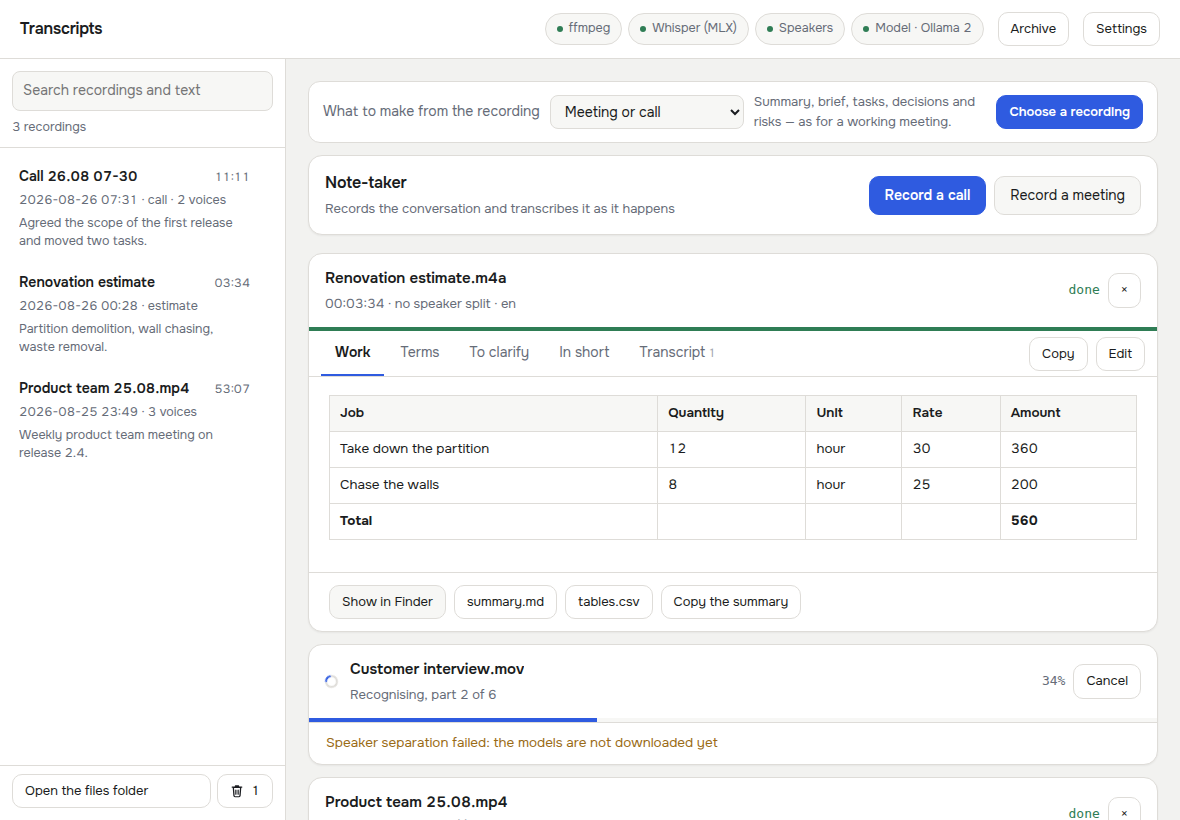
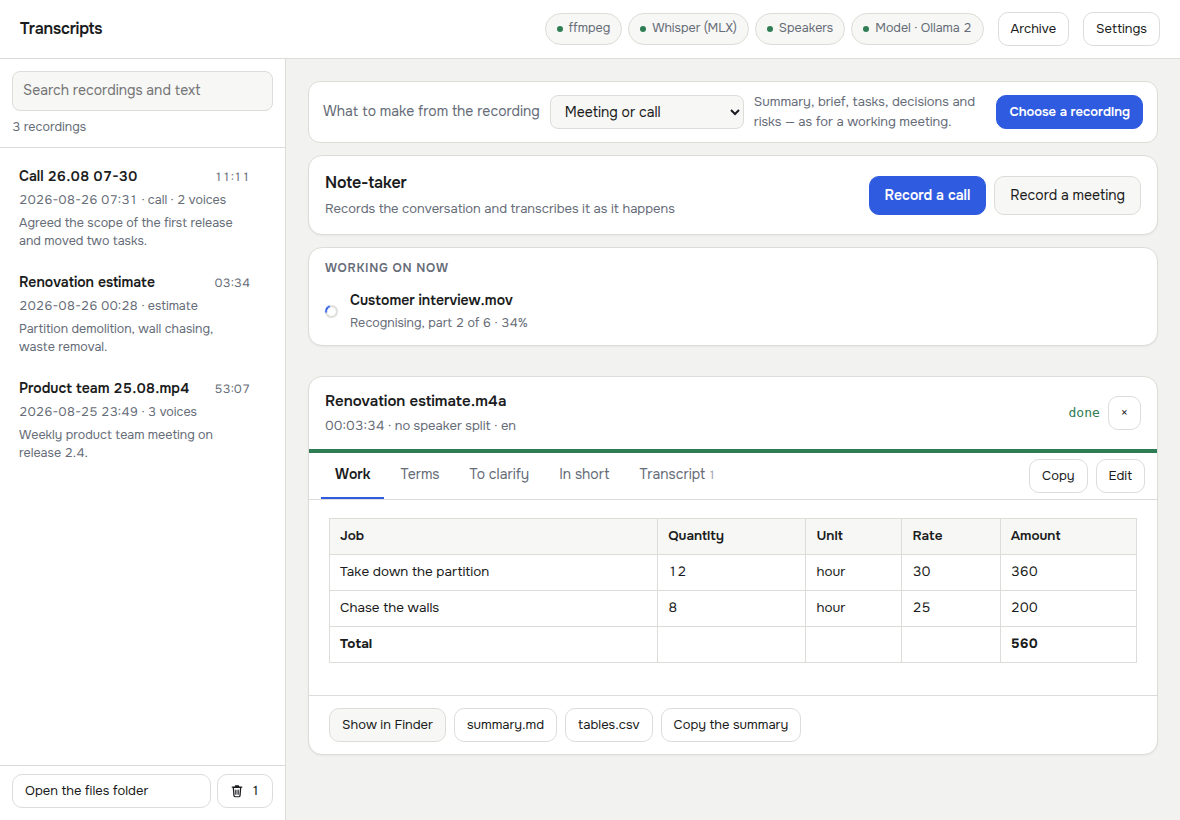
В рабочей области — одна запись, а не лента
Карточки копились в середине окна одна под другой, и люди теряли, на что
смотрят. Теперь там ровно та запись, которую открыли: кликом в списке
слева или запустив разбор. Всё, что считается прямо сейчас, собрано в
строку «Сейчас в работе» над записью — клик открывает задание.

uicheck проверяет, что в рабочей области ровно одна карточка и что строка
переключает открытую запись.

diff --git a/app/ui/index.html b/app/ui/index.html
@@ -464,6 +464,7 @@ const STR = {
     'job.speakerCount': '{n} спикер(ов)',
     'job.noSplit': 'без разделения',
     'job.copy': 'Копировать',
+    'job.working': 'Сейчас в работе',
     'job.copyTitle': 'Скопировать текст этой вкладки',
     'job.edit': 'Править',
     'job.editTitle': 'Убрать лишнее или поправить формулировку',
@@ -729,6 +730,7 @@ const STR = {
     'job.speakerCount': '{n} speaker(s)',
     'job.noSplit': 'no speaker split',
     'job.copy': 'Copy',
+    'job.working': 'Working on now',
     'job.copyTitle': "Copy this tab's text",
     'job.edit': 'Edit',
     'job.editTitle': "Cut what doesn't belong or fix the wording",
@@ -1095,7 +1097,7 @@ async function copySelection(){
 const state={ jobs:new Map(), tabs:new Map(), settings:{}, env:{},
   presets:{items:[],current:'meeting',example:''}, preset:'',
   lib:[], libQuery:'', libDir:'', libOpen:null, libAsk:null,
-  editing:new Map(), picking:null, voices:[],
+  editing:new Map(), picking:null, voices:[], openId:null,
   trash:[], trashDays:30, trashOpen:false, trashAsk:null };
 
 /* Набор вкладок зависит от профиля: у сметы свои разделы, у встречи свои.
@@ -1415,9 +1417,7 @@ async function openLib(id){
   if(!snap){ toast(T('lib.filesNotFound')); loadLib(); return; }
   state.libOpen=id;
   state.jobs.set(snap.id, snap);
-  render();
-  const card=document.querySelector(`.job[data-id="${snap.id}"]`);
-  if(card) card.scrollIntoView({block:'start', behavior:'smooth'});
+  openJob(snap.id);
 }
 
 async function deleteLib(id){
@@ -1468,18 +1468,52 @@ function renderPicker(){
   const top=$('#btn-pick-top'); if(top) top.onclick=pick;
 }
 
+/* В рабочей области — одна запись, та, что открыта. Лента из всех разом
+   путала: непонятно, где смотришь и что из этого свежее. Идущие задания
+   не теряются — они показаны строкой над записью и открываются кликом. */
+function openJob(id){
+  state.openId = id;
+  render();
+  const card=document.querySelector(`.job[data-id="${id}"]`);
+  if(card) card.scrollIntoView({block:'start', behavior:'smooth'});
+}
+
+function currentJob(){
+  const jobs=[...state.jobs.values()];
+  if(state.openId && state.jobs.has(state.openId)) return state.jobs.get(state.openId);
+  // Ничего не открыто — показываем то, что делается сейчас, иначе последнее.
+  return jobs.reverse().find(j=>j.status==='running'||j.status==='pending') || jobs[0] || null;
+}
+
+function workingHTML(current){
+  const others=[...state.jobs.values()].filter(j=>j!==current &&
+    (j.status==='running'||j.status==='pending'));
+  if(!others.length) return '';
+  return `<div class="rec-card queue">
+    <div class="queue-head">${T('job.working')}</div>` +
+    others.map(j=>`<button class="queue-item" data-openjob="${j.id}">
+      <div class="spin"></div>
+      <div style="min-width:0; text-align:left">
+        <div class="qt">${esc(j.title)}</div>
+        <div class="qs">${esc(j.message||'')} · ${Math.round(j.progress*100)}%</div>
+      </div>
+    </button>`).join('') + `</div>`;
+}
+
 function render(){
   renderPicker();
   renderLib();
-  const jobs=[...state.jobs.values()].reverse();
-  $('#jobs').innerHTML=jobs.map(jobCard).join('');
-  $('#drop').style.display = jobs.length ? 'none' : '';
+  const current=currentJob();
+  $('#jobs').innerHTML = current ? workingHTML(current) + jobCard(current) : '';
+  $('#drop').style.display = current ? 'none' : '';
   renderRec();
 }
 
 function patchJob(j){
   const prev=state.jobs.get(j.id);
   state.jobs.set(j.id,j);
+  // Новое задание само становится открытым: человек только что его запустил.
+  if(!prev && (j.status==='running'||j.status==='pending')) state.openId=j.id;
   // Пока задание идёт — двигаем только полоску, чтобы не мигал весь список.
   const node=document.querySelector(`.job[data-id="${j.id}"]`);
   if(node && prev && prev.status===j.status && (j.status==='running'||j.status==='pending')){
@@ -1762,7 +1796,7 @@ async function startJobs(paths){
 }
 
 document.addEventListener('click', async ev=>{
-  const t=ev.target.closest('[data-voice],[data-tab],[data-cancel],[data-remove],[data-reveal],[data-open],[data-copy],[data-copytab],[data-reccopy],[data-rename],[data-rec],[data-rectab],[data-lib],[data-libdel],[data-edittab],[data-editsave],[data-editcancel],[data-strike],[data-pick],[data-tag],[data-person],[data-learn],[data-forget],[data-restore],[data-purge]');
+  const t=ev.target.closest('[data-voice],[data-tab],[data-cancel],[data-remove],[data-reveal],[data-open],[data-copy],[data-copytab],[data-reccopy],[data-rename],[data-rec],[data-rectab],[data-lib],[data-libdel],[data-edittab],[data-editsave],[data-editcancel],[data-strike],[data-pick],[data-tag],[data-person],[data-learn],[data-forget],[data-restore],[data-purge],[data-openjob]');
   if(!t) return;
   if(t.dataset.edittab){
     const id=t.dataset.edittab, key=state.tabs.get(id) || firstTab(state.jobs.get(id));
@@ -1809,6 +1843,7 @@ document.addEventListener('click', async ev=>{
     await copyText(((r.summary_sections||{})[t.dataset.reccopy]||''));
     return;
   }
+  if(t.dataset.openjob){ openJob(t.dataset.openjob); return; }
   if(t.dataset.libdel){ ev.stopPropagation(); await deleteLib(t.dataset.libdel); return; }
   if(t.dataset.restore){
     const r=await api().trash_restore(t.dataset.restore);
@@ -1855,7 +1890,12 @@ document.addEventListener('click', async ev=>{
     render(); return;
   }
   if(t.dataset.cancel){ await api().cancel(t.dataset.cancel); return; }
-  if(t.dataset.remove){ state.jobs.delete(t.dataset.remove); render(); return; }
+  if(t.dataset.remove){
+    state.jobs.delete(t.dataset.remove);
+    if(state.openId===t.dataset.remove) state.openId=null;
+    if(state.libOpen===t.dataset.remove) state.libOpen=null;
+    render(); return;
+  }
   if(t.dataset.reveal){ await api().reveal(t.dataset.reveal); return; }
   if(t.dataset.open){ await api().open_file(t.dataset.open); return; }
   if(t.dataset.copy){

diff --git a/tools/uicheck.py b/tools/uicheck.py
@@ -359,8 +359,8 @@ def _english_pass(browser, settings: dict, env: dict, presets_mod, out_dir: Path
             if probe not in (page.text_content("#app") or ""):
                 errors.append(f"en/{scheme}: в окне нет «{probe}»")
 
-        page.evaluate("(j)=>{state.jobs.set(j.id,j); render();}", EN_JOB)
         page.evaluate("(j)=>{state.jobs.set(j.id,j); render();}", EN_RUNNING)
+        page.evaluate("(j)=>{state.jobs.set(j.id,j); openJob(j.id);}", EN_JOB)
         page.wait_for_timeout(150)
         page.click('.job[data-id="demo1234"] [data-tab="tasks"]')
         page.wait_for_timeout(120)
@@ -389,7 +389,7 @@ def _english_pass(browser, settings: dict, env: dict, presets_mod, out_dir: Path
 
         page.click('[data-rec="cancel"]')
         page.wait_for_timeout(150)
-        page.evaluate("(j)=>{state.jobs.set(j.id,j); render();}", EN_ESTIMATE_JOB)
+        page.evaluate("(j)=>{state.jobs.set(j.id,j); openJob(j.id);}", EN_ESTIMATE_JOB)
         page.wait_for_timeout(150)
         page.click('.job[data-id="demo9999"] [data-tab="works"]')
         page.wait_for_timeout(150)
@@ -471,8 +471,21 @@ def main() -> int:
 
             page.screenshot(path=str(out_dir / f"1-empty-{scheme}.png"))
 
-            page.evaluate("(j)=>{state.jobs.set(j.id,j); render();}", JOB)
             page.evaluate("(j)=>{state.jobs.set(j.id,j); render();}", RUNNING)
+            page.evaluate("(j)=>{state.jobs.set(j.id,j); openJob(j.id);}", JOB)
+            page.wait_for_timeout(200)
+            # В рабочей области — только открытая запись, остальные строкой сверху.
+            if page.locator(".job").count() != 1:
+                errors.append(f"{scheme}: в рабочей области больше одной записи: "
+                              f"{page.locator('.job').count()}")
+            if not page.locator('[data-openjob="demo5678"]').count():
+                errors.append(f"{scheme}: идущее задание не показано строкой")
+            page.click('[data-openjob="demo5678"]')
+            page.wait_for_timeout(250)
+            if not page.locator('.job[data-id="demo5678"]').count():
+                errors.append(f"{scheme}: по клику строка не открывает задание")
+            page.evaluate("openJob('demo1234')")
+            page.wait_for_timeout(200)
             page.wait_for_timeout(150)
             page.screenshot(path=str(out_dir / f"2-result-{scheme}.png"), full_page=True)
 
@@ -591,7 +604,7 @@ def main() -> int:
             page.wait_for_timeout(150)
 
             # --- профиль: смета со своими вкладками ---
-            page.evaluate("(j)=>{state.jobs.set(j.id,j); render();}", ESTIMATE_JOB)
+            page.evaluate("(j)=>{state.jobs.set(j.id,j); openJob(j.id);}", ESTIMATE_JOB)
             page.wait_for_timeout(150)
             est = page.text_content("#jobs") or ""
             for probe in ("Работы", "Что уточнить", "таблицы.csv"):
@@ -619,6 +632,8 @@ def main() -> int:
                 errors.append(f"{scheme}: подсказка профиля не обновилась")
 
             # --- правка саммари: вычеркнуть лишнее ---
+            page.evaluate("openJob('demo1234')")
+            page.wait_for_timeout(200)
             page.click('.job[data-id="demo1234"] [data-tab="summary"]')
             page.wait_for_timeout(150)
             if not page.locator('[data-edittab="demo1234"]').count():
@@ -687,6 +702,10 @@ def main() -> int:
                 errors.append(f"{scheme}: открытая запись не подсвечена")
             if "Созвон 26.08 07-30" not in (page.text_content("#jobs") or ""):
                 errors.append(f"{scheme}: запись из архива не открылась")
+            # Клик по архиву показывает только эту запись — ленты больше нет.
+            if page.locator(".job").count() != 1:
+                errors.append(f"{scheme}: в рабочей области не одна запись: "
+                              f"{page.locator('.job').count()}")
             # зона перетаскивания скрыта карточками — кнопка выбора файла
             # обязана оставаться на виду
             if not page.locator("#btn-pick-top").is_visible():
@@ -793,6 +812,8 @@ def main() -> int:
             # проверки содержимого
             page.click("#btn-close")
             # на экране теперь и карточка из архива — целимся в нужную
+            page.evaluate("openJob('demo1234')")
+            page.wait_for_timeout(200)
             page.click('.job[data-id="demo1234"] [data-tab="transcript"]')
             page.wait_for_timeout(150)
             text = page.inner_text("#pane-demo1234")

diff --git a/app/__init__.py b/app/__init__.py
@@ -1,3 +1,3 @@
 """Локальная расшифровка записей: транскрипт, саммари, бриф, задачи."""
 
-__version__ = "1.4.0"
+__version__ = "1.4.1"

diff --git a/CHANGELOG.md b/CHANGELOG.md
@@ -4,6 +4,17 @@ All notable changes to this project are documented here.
 The format follows [Keep a Changelog](https://keepachangelog.com/en/1.1.0/),
 and the project uses [semantic versioning](https://semver.org/).
 
+## [1.4.1] — 2026-08-30
+
+### Changed
+
+- **One recording in the working area, not a feed of all of them.** Cards for
+  every recording stacked up in the middle of the window and people lost track
+  of which one they were looking at. Now the working area shows exactly the
+  recording you opened — from the archive on the left, or the one you just
+  started — and everything still being processed sits above it as a single
+  “Working on now” line that opens on click.
+
 ## [1.4.0] — 2026-08-30
 
 ### Added

diff --git a/README.md b/README.md
@@ -330,6 +330,14 @@ python tools/speakertest.py "~/Documents/Transcripts/Call.wav" --было 4    #
 python tools/speakertest.py "~/Documents/Transcripts" --список truth.txt
 ```
 
+### One recording in the working area
+
+The middle of the window shows exactly the recording you opened — from the list
+on the left, or the one you just started. Cards used to stack into a feed, and
+it stopped being obvious which one you were looking at. Anything still being
+processed is collected into a single “Working on now” line above the recording;
+clicking it opens that job.
+
 ### The trash, and getting a recording back
 
 The cross next to a recording is now a trash icon, and deleting stopped being
